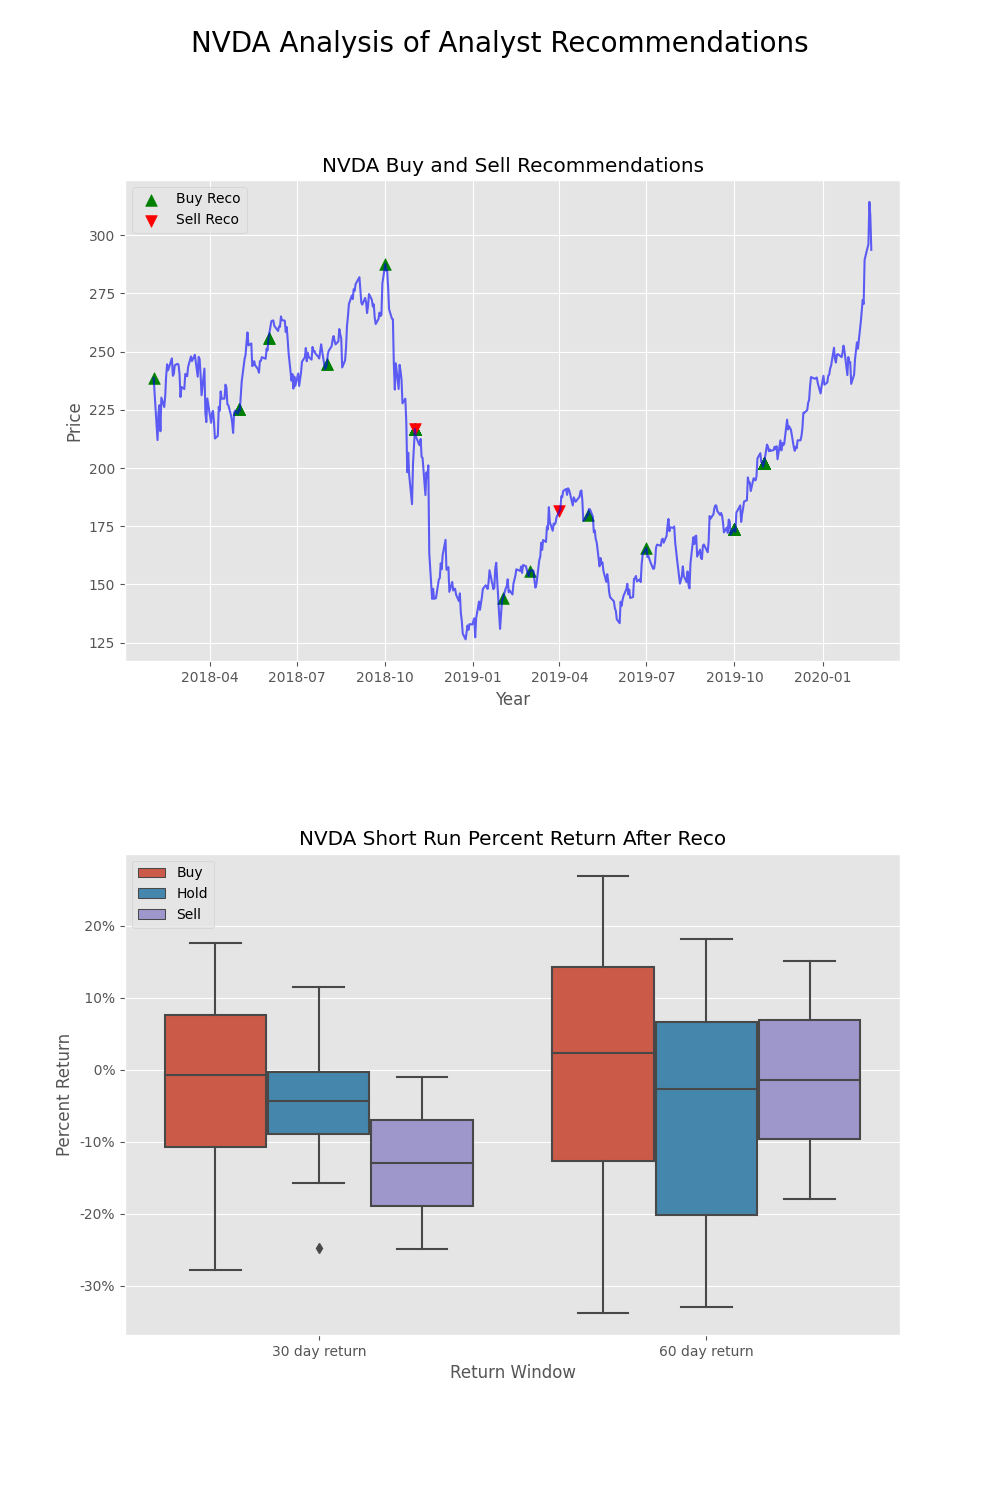
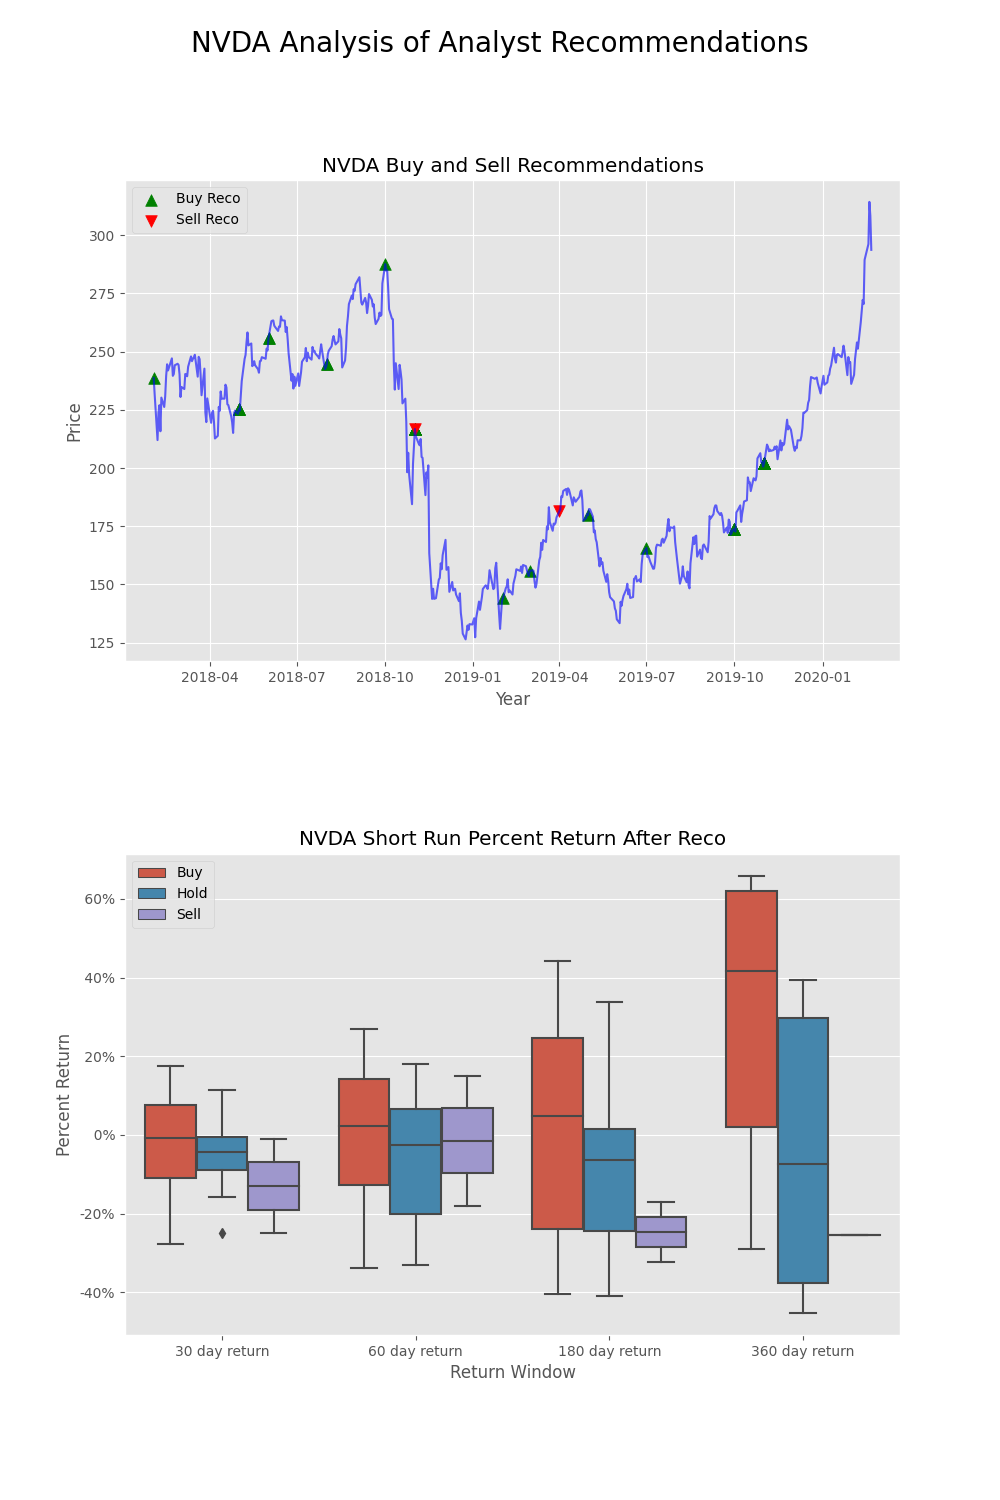
Fix bug where error if do not enter return window

diff --git a/flask_app/templates/submit_form.html b/flask_app/templates/submit_form.html
@@ -86,7 +86,7 @@
 
       <div class="container">
         <label for="DateMax"><strong>Return Periods (In Days)</strong></label>
-        <input type="text" id="ReturnWindows" name="ReturnWindows" placeholder="30, 60, 180">
+        <input type="text" id="ReturnWindows" name="ReturnWindows" placeholder="30, 60, 180, 360">
 
       </div>
       <button type="Submit"><strong>Submit</strong></button>

diff --git a/flask_app/application.py b/flask_app/application.py
@@ -33,7 +33,11 @@ def get_info():
     DateMin = request.form['DateMin']
     DateMax = request.form['DateMax']
     ReturnWindows = request.form['ReturnWindows']
-    ReturnWindows = [int(s) for s in ReturnWindows.split(',')]
+    if ReturnWindows == "":
+        ReturnWindows = [30,60,180,360]
+    else:
+        ReturnWindows = [int(s) for s in ReturnWindows.split(',')]
+
     return Ticker, DateMin, DateMax, ReturnWindows
 
 #This launches our form template when we load the page
